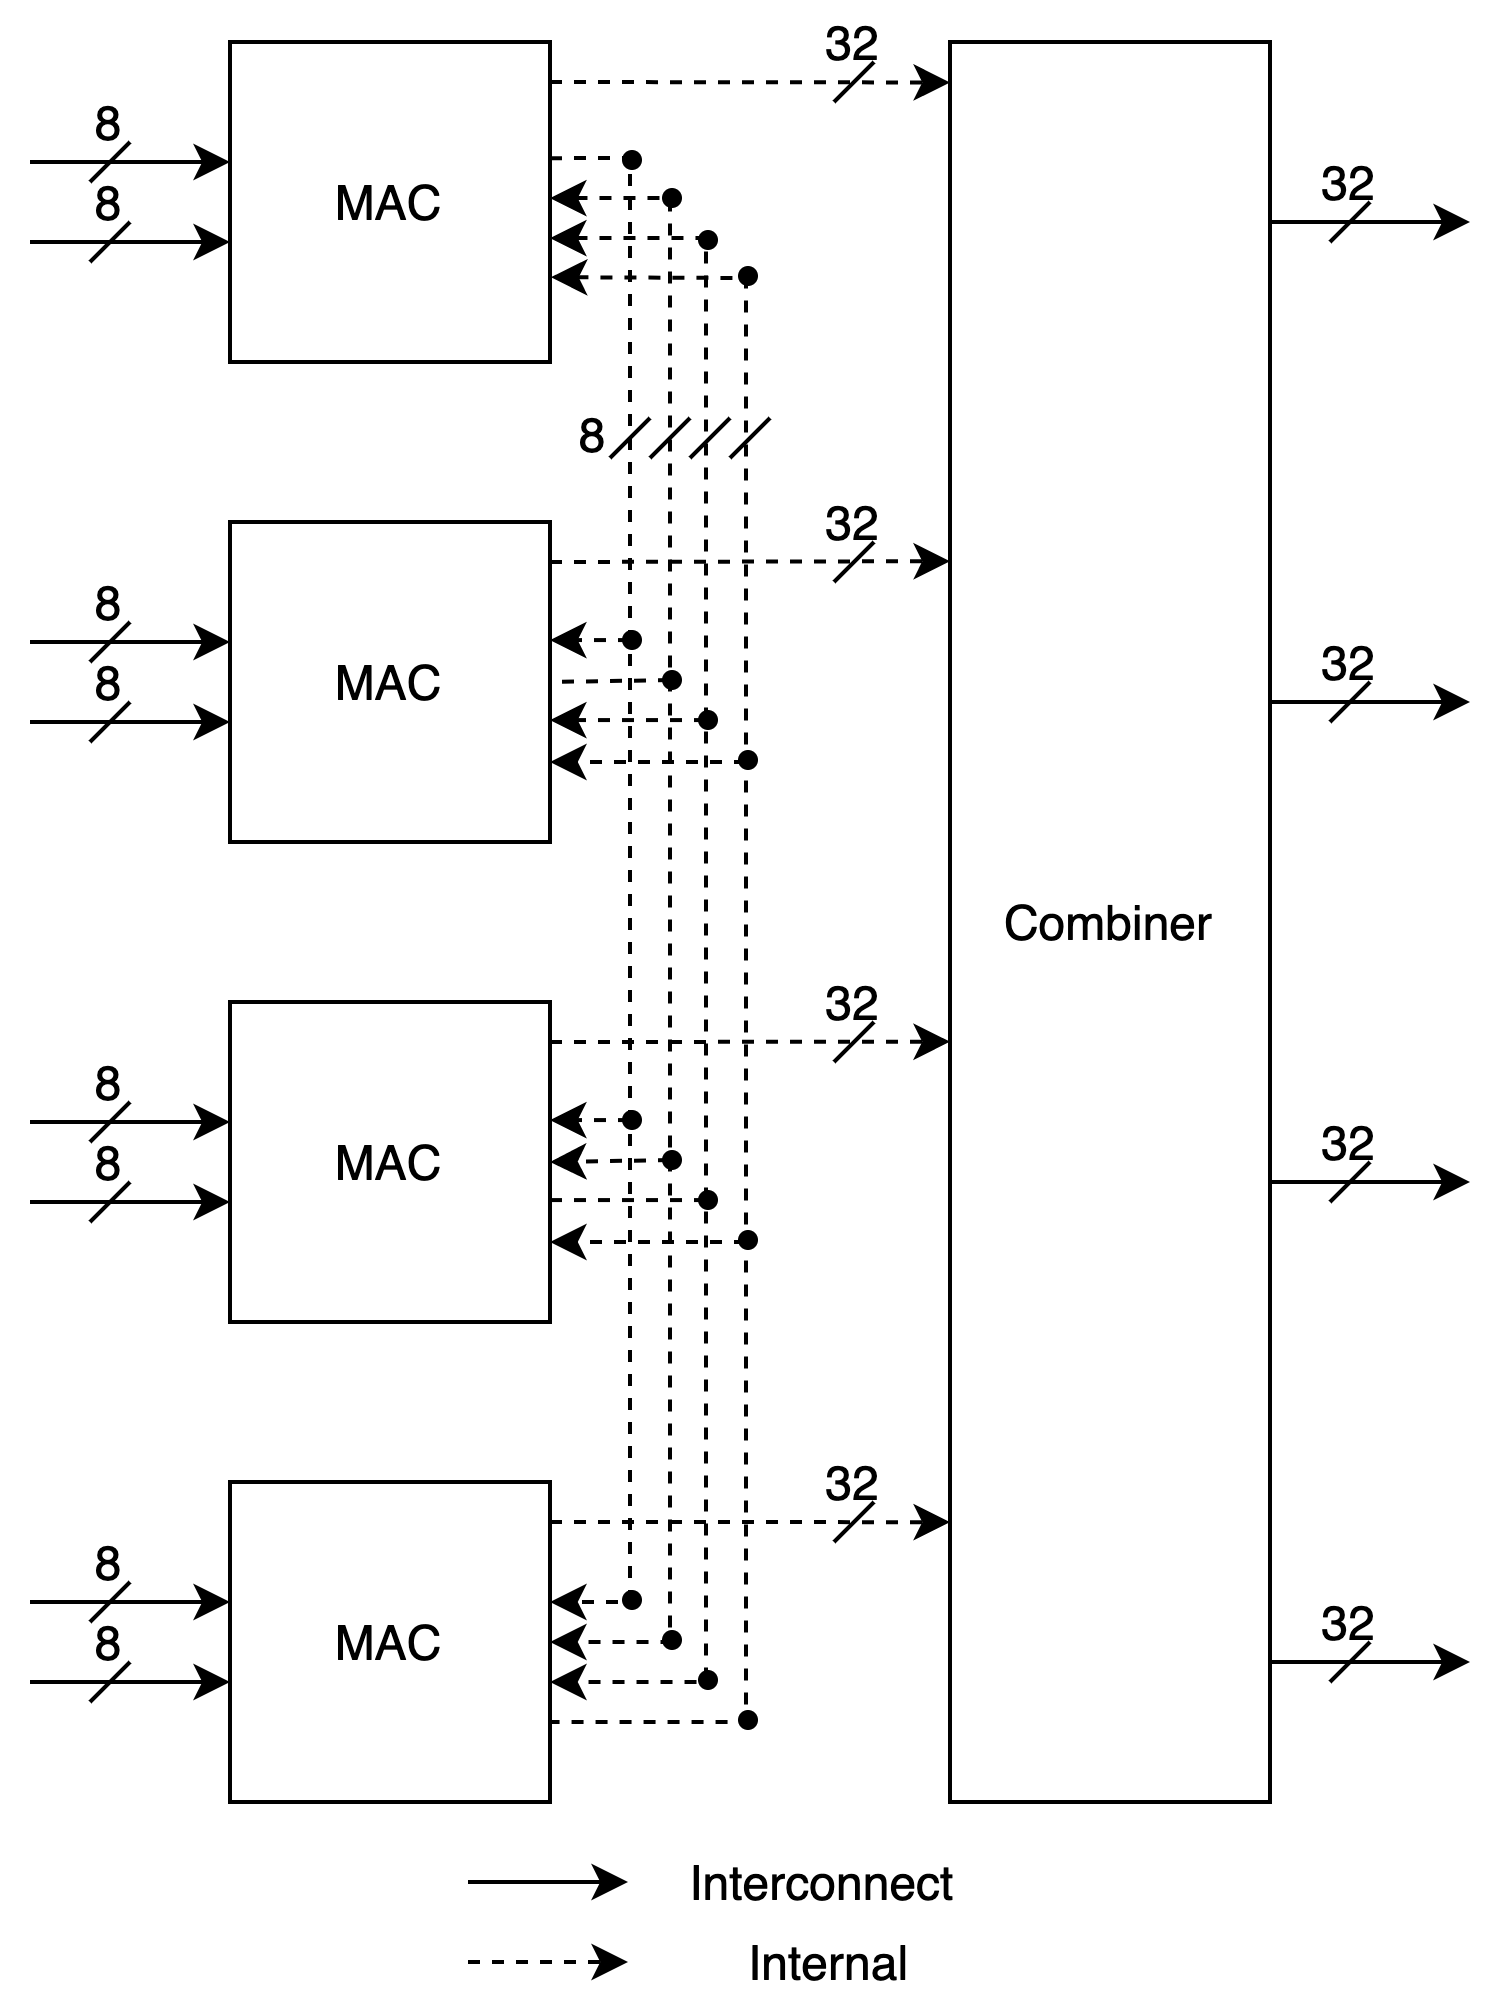
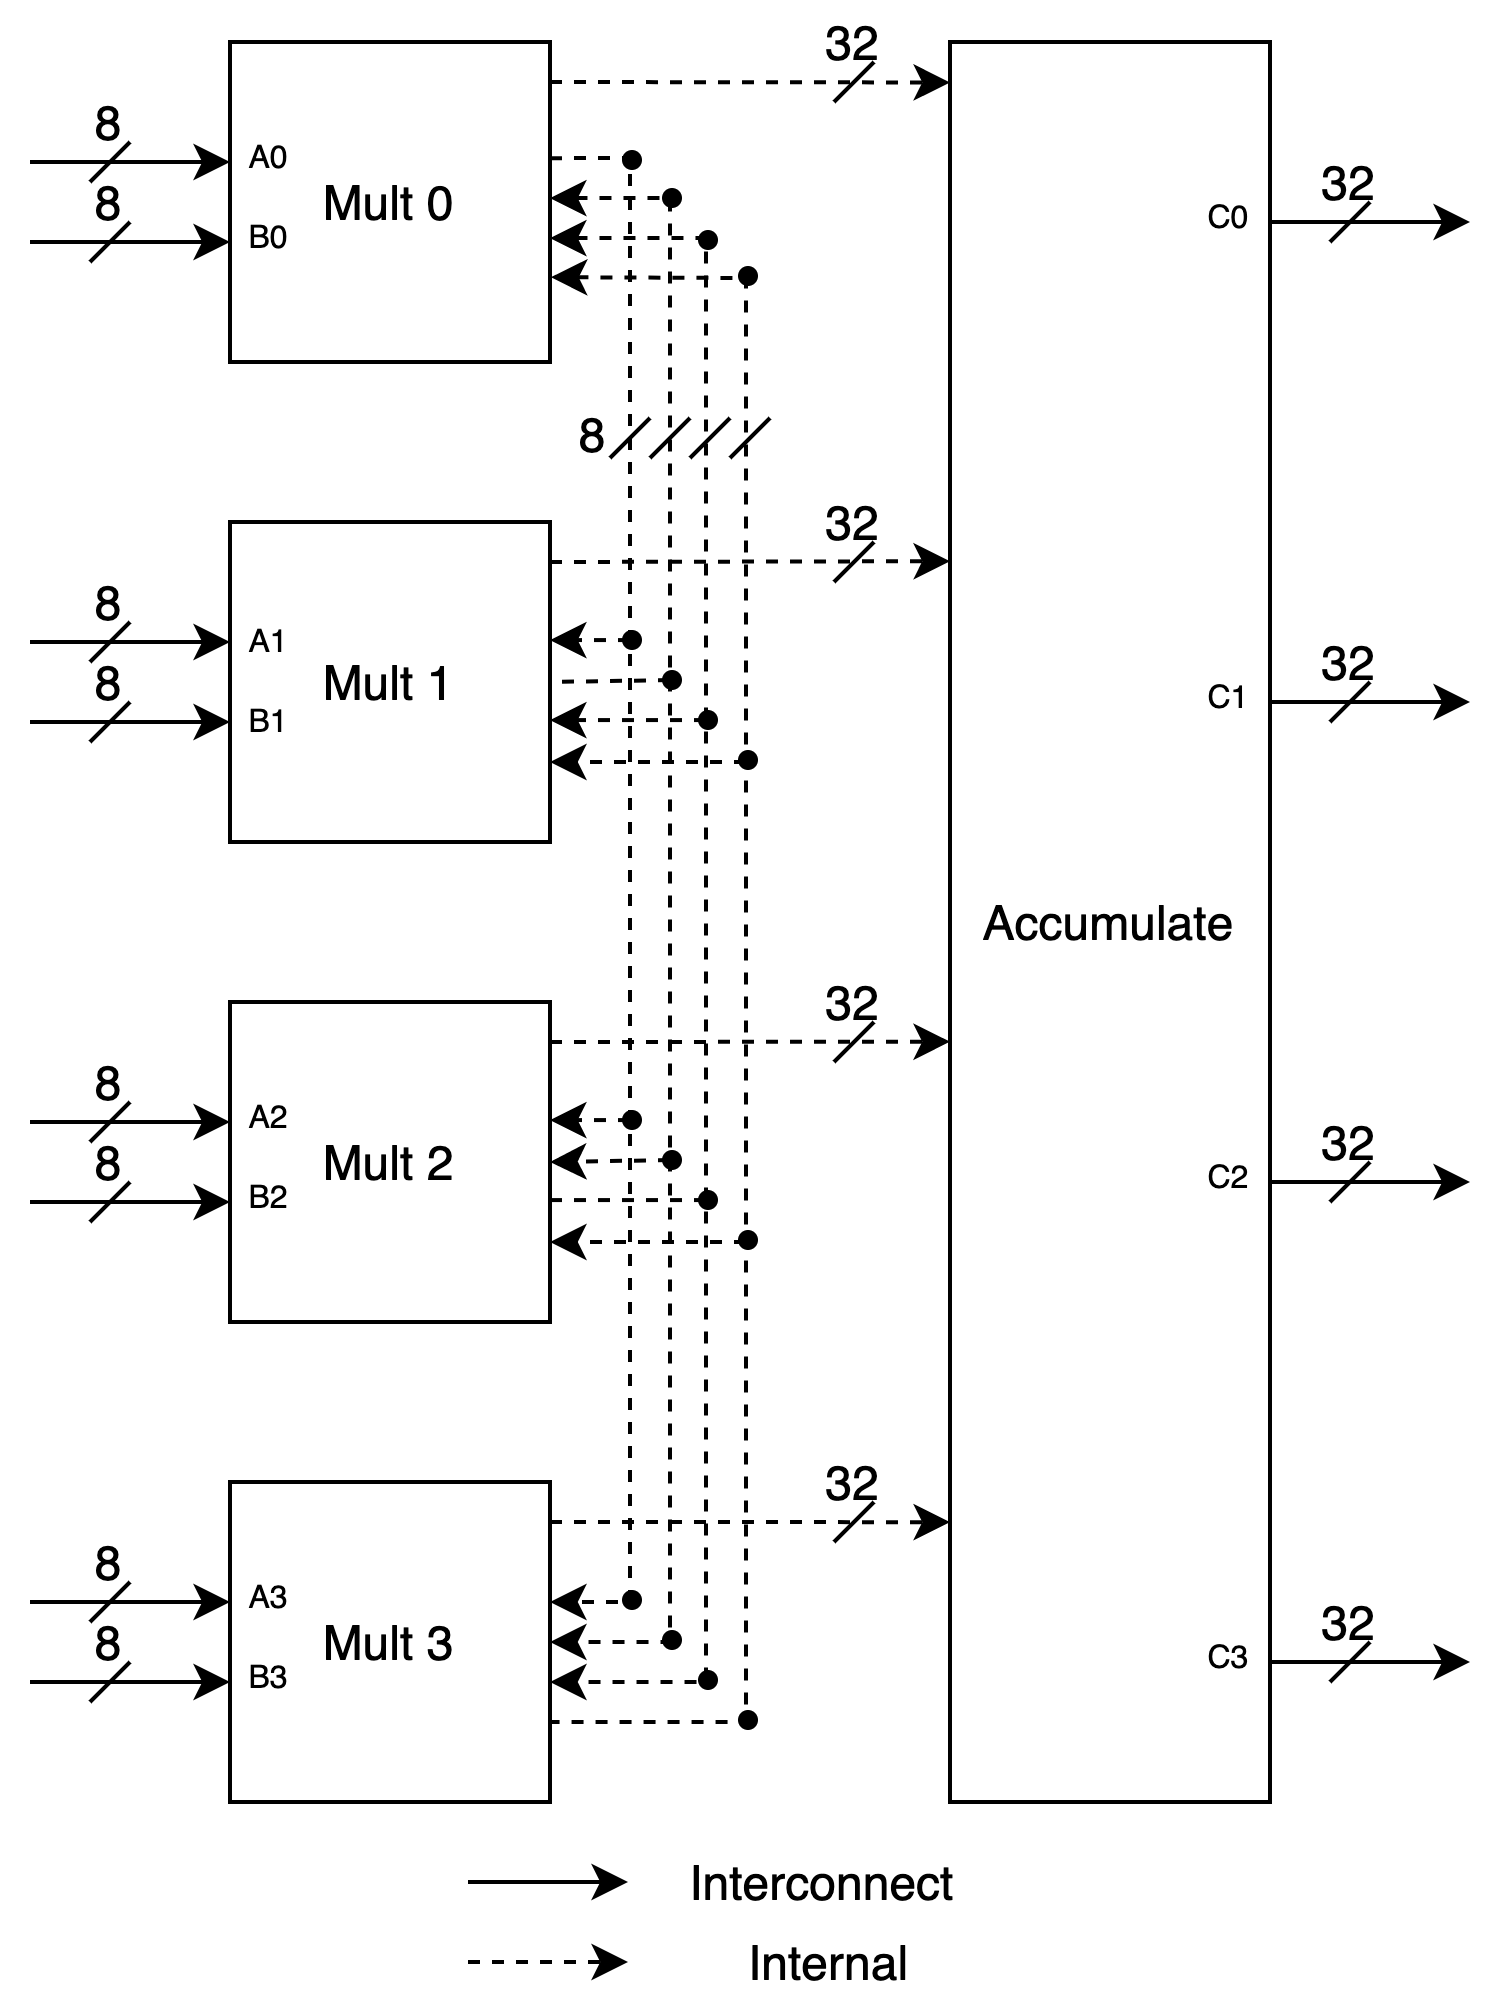
Added basic readme

diff --git a/README.md b/README.md
@@ -1,1 +1,97 @@
 # mac_team
+
+This is a width-configurable MAC "block" that can calculate 4-8bit\*8bit, 2-16bit\*16-bit, or 1-32bit\*32bit MAC or multiply operations in a single cycle. The operation and operation bitwidth can be configurated at runtime.
+
+## Block Diagram
+The MAC "block" is actually designed as a cluster, where the operations are done in a distributed fashion across multiple blocks. This design was chosen as it allows the blocks to be moved around and custom placed to avoid any wire congestion, as the MAC cluster has a large number of inputs and outputs. Below is a simplified block diagram:
+
+![block_diagram](https://github.com/ucb-cs250/mac_team/raw/master/diagrams/cluster-design.png)
+
+## IO
+In terms of IO, the whole MAC cluster has 64 bits of total input (32 bits for each input) and 128 bits of total output. As each multiply block only performs 8bit\*8bit multiplies, the input wires are divided as such. To account for larger input bitwidths (16, 32), the inputs will then be passed on to other multiply blocks via internal interconnect to calculate partial products.
+
+The output is divided into 4 32-bit values as there will be 4 different accumulate outputs in the smallest bitwidth case. For larger bitwidths, the output will span more wires. 
+
+Below is a table of the mapping of inputs/outputs to bitwidth configuration. The wires are specified in the above block diagram.
+
+<table>
+<thead>
+  <tr>
+    <th>Input Bitwidth</th>
+    <th>Operation ID</th>
+    <th>Input A</th>
+    <th>Input B</th>
+    <th>Output C</th>
+  </tr>
+</thead>
+<tbody>
+  <tr>
+    <td rowspan="4">8</td>
+    <td>0</td>
+    <td>A0</td>
+    <td>B0</td>
+    <td>C0</td>
+  </tr>
+  <tr>
+    <td>1</td>
+    <td>A1</td>
+    <td>B1</td>
+    <td>C1</td>
+  </tr>
+  <tr>
+    <td>2</td>
+    <td>A2</td>
+    <td>B2</td>
+    <td>C2</td>
+  </tr>
+  <tr>
+    <td>3</td>
+    <td>A3</td>
+    <td>B3</td>
+    <td>C3</td>
+  </tr>
+  <tr>
+    <td rowspan="2">16</td>
+    <td>0</td>
+    <td>{A1,A0}</td>
+    <td>{B1,B0}</td>
+    <td>{C1,C0}</td>
+  </tr>
+  <tr>
+    <td>1</td>
+    <td>{A3,A2}</td>
+    <td>{B3,B2}</td>
+    <td>{C3,C2}</td>
+  </tr>
+  <tr>
+    <td>32</td>
+    <td>0</td>
+    <td>{A3,A2,A1,A0}</td>
+    <td>{B3,B2,B1,B0}</td>
+    <td>{C3,C2,C1,C0}</td>
+  </tr>
+</tbody>
+</table>
+
+## Configuration
+The whole MAC cluster takes in 131 bits of configuration. The first 128 bits are used for initial accumulator values (4x32) and the last 3 bits are the function configuration that sets the function (MAC or multiply) and the bitwidth (8-single, 16-dual, 32-quad). The bit layout is as follows:
+`{32'acc3_init, 32'acc2_init, 32'acc1_init, 32'acc0_init, 1'function, 2'bitwidth}`
+For the function configuration bit, a `0` encodes multiply only and a `1` encodes multiply-accumulate. For the bitwidth, a `00` encodes an operation bitwidth of 8 (single), a `01` encodes an operation bitwidth of 16 (dual), and `10` encodes an operation bitwidth of 32 (quad).
+
+## Testing
+We also supply a testbench to verify the functionality of the MAC. 
+
+To build, run:
+`make-clean && make`
+
+To run the testbench, run:
+`./simulator-mac_test_harness +cfg=<val> +num_tests=<val>`
+where cfg is the 3-bit function configuration and num_tests is the number of tests. The different configuration codes are as follows:
+```
+0 = 4 8x8 mults, multiply  only
+1 = 2 16x16 mults, multiply only
+2 = 1 32x32 mults,  multiply only
+4 = 4 8x8 mults, MAC
+5 = 2 16x16 mults, MAC
+6 = 1 32x32 mults, MAC
+```
